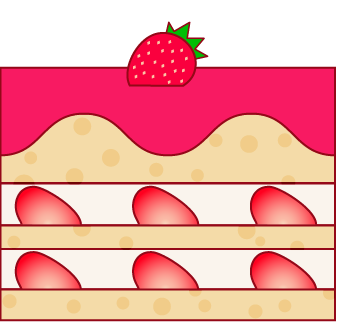
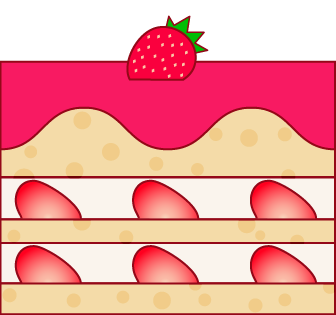
update images to look better, improve copy, add new cutline

diff --git a/src/Pages/LearningPage/LearningPath.tsx b/src/Pages/LearningPage/LearningPath.tsx
@@ -30,7 +30,7 @@ import simple3Results from '../../images/results/simple3results.png'
 import toolExample from '../../images/tool example.png'
 import { Portion, Segment } from '../../types'
 import { formatNumber } from '../../utils/formatUtils'
-import { CakeFlavor, CakeImage, CharacterImage } from './Images'
+import { CakeFlavor, CakeImage, CharacterImage, ImageContainer } from './Images'
 
 interface CommonProps {
   preferredFlavor: CakeFlavor | null
@@ -183,12 +183,6 @@ export const LearningPath = () => {
   )
 }
 
-const ImageContainer = ({ children }) => (
-  <Stack direction="row" justifyContent="center" marginY={2} sx={{ clear: 'both' }}>
-    {children}
-  </Stack>
-)
-
 const WhatLearn = () => (
   <>
     <h2>Fair Division Interactive Course</h2>
@@ -228,9 +222,8 @@ const FairDivision = () => {
         necessary, and are usually shared equally.
       </p>
       <ImageContainer>
-        <CakeImage flavor="chocolate" width={200}/>
-        {/* make them look overlapping, not perfect though */}
-        <CakeImage flavor="chocolate" width={200} sx={{ marginLeft: '-1px' }} />
+        <CakeImage flavor="chocolate" width={200} />
+        <CakeImage flavor="chocolate" width={200} />
       </ImageContainer>
 
       <p>
@@ -256,9 +249,20 @@ const SimpleCakeDivision = () => {
         pieces. Which piece do you want?
       </p>
 
-      <ImageContainer>
-        <CakeImage flavor="chocolate" width="200px" onClick={() => setSelected(true)} />
-        <CakeImage flavor="chocolate" width="200px" onClick={() => setSelected(true)} />
+      <ImageContainer spacing={1}>
+        <CakeImage
+          flavor="chocolate"
+          width="200px"
+          onClick={() => setSelected(true)}
+          sx={{ marginBottom: 2 }}
+        />
+        <Box borderLeft="4px dashed black" />
+        <CakeImage
+          flavor="chocolate"
+          width="200px"
+          onClick={() => setSelected(true)}
+          sx={{ marginBottom: 2 }}
+        />
       </ImageContainer>
       {selected ? (
         <>
@@ -308,15 +312,8 @@ const TwoFlavorCake = ({ preferredFlavor, setPreferredFlavor }: CommonProps) => 
         This cake is <strong>heterogenous</strong> (made of different things).
       </p>
       <ImageContainer>
-        <CakeImage
-          flavor="vanilla"
-          width="200px"
-        />
-        <CakeImage
-          flavor="chocolate"
-          width="200px"
-          sx={{marginLeft: '-1px'}}
-        />
+        <CakeImage flavor="vanilla" width="200px" />
+        <CakeImage flavor="chocolate" width="200px" />
       </ImageContainer>
 
       <CharacterImage character="Aki" sx={{ float: 'right' }} />
@@ -329,16 +326,19 @@ const TwoFlavorCake = ({ preferredFlavor, setPreferredFlavor }: CommonProps) => 
         <em>Which piece do you want?</em>
       </p>
 
-      <ImageContainer>
+      <ImageContainer spacing={1}>
         <CakeImage
           flavor="vanilla"
           width="200px"
           onClick={() => setPreferredFlavor('vanilla')}
+          sx={{ marginBottom: 2 }}
         />
+        <Box borderLeft="4px dashed black" />
         <CakeImage
           flavor="chocolate"
           width="200px"
           onClick={() => setPreferredFlavor('chocolate')}
+          sx={{ marginBottom: 2 }}
         />
       </ImageContainer>
       {preferredFlavor && (
@@ -487,6 +487,13 @@ const MeasuringPreference = () => {
     setAlgoResults(results)
   }
   const drawingComplete = isDrawingComplete(segments, cakeSize)
+
+  const activeCutlineProps = {
+    role: 'button',
+    tabIndex: 0,
+    onClick: runAlgo,
+    'aria-label': `Cut the cake here, at ${(cutPoint / cakeSize) * 100}%`,
+  }
   return (
     <>
       <h2>Measuring Preference</h2>
@@ -494,20 +501,14 @@ const MeasuringPreference = () => {
       <p>Here's a strawberry and vanilla cake</p>
       <ImageContainer>
         <CakeImage flavor="strawberry" width={drawingInnerWidth / 2} />
-        <CakeImage
-          flavor="vanilla"
-          width={drawingInnerWidth / 2}
-          // makes the pieces look attached
-          sx={{ marginLeft: '-2px' }}
-        />
+        <CakeImage flavor="vanilla" width={drawingInnerWidth / 2} />
       </ImageContainer>
       <p>This time you cut and Aki chooses.</p>
 
       {cutPoint ? null : (
         <p>
-          First, <strong>mark</strong> how much you like each flavor on the graph below.
-          The scale goes from 0-10 with higher numbers meaning that flavor is higher value
-          to you.
+          First, <strong>mark</strong> how much you like each flavor on the graph below
+          with 0 meaning being "hate it" and 10 meaning "love it".
         </p>
       )}
 
@@ -565,13 +566,41 @@ const MeasuringPreference = () => {
       </GraphContext.Provider>
 
       {cutPoint && !algoResults ? (
-        <p>
-          Based on your preferences, this dotted line is where you should cut the cake so
-          that each piece is worth <sup>1</sup>
-          &frasl;
-          <sub>2</sub> the cake to you. This way you'll get a fair portion of the cake no
-          matter which part Aki chooses.
-        </p>
+        <>
+          <p>
+            Based on your preferences, this dotted line is where you should cut the cake
+            so that each piece is worth <sup>1</sup>
+            &frasl;
+            <sub>2</sub> the cake to you. This way you'll get a fair portion of the cake
+            no matter which part Aki chooses.
+          </p>
+          <p>
+            Now click the dotted line to <strong>cut the cake!</strong>
+          </p>
+
+          <Box width="fit-content" marginX="auto" position="relative">
+            <CakeImage flavor="strawberry" width="200px" />
+            <CakeImage flavor="vanilla" width="200px" />
+            {/* Dotted line for cutting */}
+            <Box
+              {...(algoResults ? {} : activeCutlineProps)}
+              position="absolute"
+              left={(100 * cutPoint) / cakeSize + '%'}
+              top={0}
+              sx={{
+                cursor: 'pointer',
+                transform: 'translateX(-50%)',
+                '&:hover, &:focus': {
+                  transform: 'translateX(-50%) scaleX(1.5)',
+                },
+              }}
+              paddingX={2}
+              height="100%"
+            >
+              <Box borderLeft="4px dashed black" height="100%" />
+            </Box>
+          </Box>
+        </>
       ) : null}
 
       {cutPoint ? null : (
@@ -590,7 +619,16 @@ const MeasuringPreference = () => {
           <Box component="p" marginTop={4}>
             Nice! Let's see which piece Aki chooses:
           </Box>
+
           <CharacterImage character="Aki" sx={{ marginY: 2, marginX: 'auto' }} />
+
+          <p>
+            It turns out Aki likes strawberry even more than vanilla
+            {algoResults[1].edges[0][0] === 0
+              ? ' so she chose the left piece.'
+              : ', yet despite that, the right part looks better to her based on where you cut the cake.'}
+          </p>
+
           <GraphContext.Provider
             value={{
               ...createScales({
@@ -611,13 +649,6 @@ const MeasuringPreference = () => {
               namesPossessive={['Your', "Aki's"]}
             />
           </GraphContext.Provider>
-
-          <Box component="p" marginTop={6}>
-            It turns out Aki likes strawberry even more than vanilla
-            {algoResults[1].edges[0][0] === 0
-              ? ' so she chose the left piece.'
-              : ', yet despite that, the right part looks better to her.'}
-          </Box>
 
           <p>
             She says her piece is worth{' '}
@@ -818,7 +849,8 @@ const EnvyFree = () => {
         <sub>n</sub> of the whole.
       </p>
       <p>
-        This is easy with 2 people, but splitting a cake with 3 or more gets a bit tricky.
+        Cut and Choose is proportional and envy-free, but this gets trickier with more
+        people.
       </p>
     </>
   )
@@ -836,7 +868,7 @@ const SelfridgeConway = () => {
         This method is now called the <strong>Selfridge-Conway Method.</strong>
       </p>
       <p>
-        The steps of the method are a bit involved, but the simplified version looks like
+        The steps of the method are a bit involved, but the simple version looks like
         this:
       </p>
       <ol>
@@ -855,13 +887,14 @@ const SelfridgeConway = () => {
       <p>
         If you're curious, you can{' '}
         <Link href={Algorithms.selfridgeConway.link}>
-          learn more about the Selfridge-Conway Method.
+          learn the full Selfridge-Conway Method.
         </Link>
       </p>
       <p></p>
     </>
   )
 }
+// should add an interactive part here.
 const ThreeWayDivision = () => {
   return (
     <>
@@ -911,13 +944,13 @@ const ThreeWayDivision = () => {
             Aki gets these two pieces
           </OverlayText>
           <OverlayText justifySelf="center" character="Bruno" gridArea="b">
-            Bruno gets this one plus a sliver at the end
+            Bruno gets this piece
           </OverlayText>
           <OverlayText justifySelf="flex-end" character="Chloe" gridArea="c1">
             Chloe gets this piece
           </OverlayText>
           <OverlayText justifySelf="flex-end" character="Chloe" gridArea="c2">
-            Chloe algo gets this piece
+            Chloe also gets this piece
           </OverlayText>
         </Box>
       </Box>
@@ -944,17 +977,18 @@ const ParetoOptimal = () => {
         about <em>optimal</em> fairness?
       </p>
       <p>
-        Although this solution to the last problem is fair by the envy-free definition, it
-        could be even better.
+        Although this solution to the last problem is fair by the envy-free definition,
+        with a slight adjustment to the portions more value could be extracted.
       </p>
       <p>
         A solution where no change would give someone more value without taking value away
         from someone else is called <strong>Pareto-optimal</strong>.
       </p>
       <p>
-        Unfortunately, <strong>Pareto-optimal solutions</strong> can be very difficult to
-        calculate. For this reason, finding an envy-free solution is a much more realistic
-        goal.
+        Pareto-optimal solutions aren't necessarily envy-free, but a solution that
+        achieves both is a bit closer to ideal. Unfortunately, such solutions can be
+        difficult to calculate. For this reason, finding an envy-free solution is a much
+        more realistic goal.
       </p>
       <p>
         For more info,{' '}

diff --git a/src/Pages/LearningPage/Images.tsx b/src/Pages/LearningPage/Images.tsx
@@ -1,12 +1,29 @@
-import { Box, Button } from '@mui/material'
-import { ComponentProps } from 'react'
+import { Box, Button, Stack } from '@mui/material'
+import { ComponentProps, ReactNode } from 'react'
 
-import chocolateCake from '../../images/cake/cake chocolate.png'
-import strawberryCake from '../../images/cake/cake strawberry.png'
-import vanillaCake from '../../images/cake/cake vanilla.png'
+import chocolateCake from '../../images/cake/cake_chocolate edgeless.png'
+import strawberryCake from '../../images/cake/cake_strawberry edgeless.png'
+import vanillaCake from '../../images/cake/cake_vanilla edgeless.png'
 import akiChar from '../../images/character/aki.svg'
 import brunoChar from '../../images/character/bruno.svg'
 import chloeChar from '../../images/character/chloe.svg'
+
+interface ImageContainerProps {
+  children: ReactNode
+  spacing?: number
+}
+
+export const ImageContainer = ({ children, spacing }: ImageContainerProps) => (
+  <Stack
+    direction="row"
+    justifyContent="center"
+    marginY={2}
+    spacing={spacing}
+    sx={{ clear: 'both' }}
+  >
+    {children}
+  </Stack>
+)
 
 export const highlightCss = {
   // cursor: 'pointer',
@@ -58,11 +75,11 @@ interface CharacterImageProps {
 export const CharacterImage = ({
   character,
   width = 120,
-  hideName =false,
+  hideName = false,
   sx = {},
 }: CharacterImageProps) => (
   <Box width={width} textAlign="center" sx={sx}>
-    <img src={characterImageMap[character]} alt=""/>
+    <img src={characterImageMap[character]} alt="" />
     {hideName ? null : character}
   </Box>
 )
